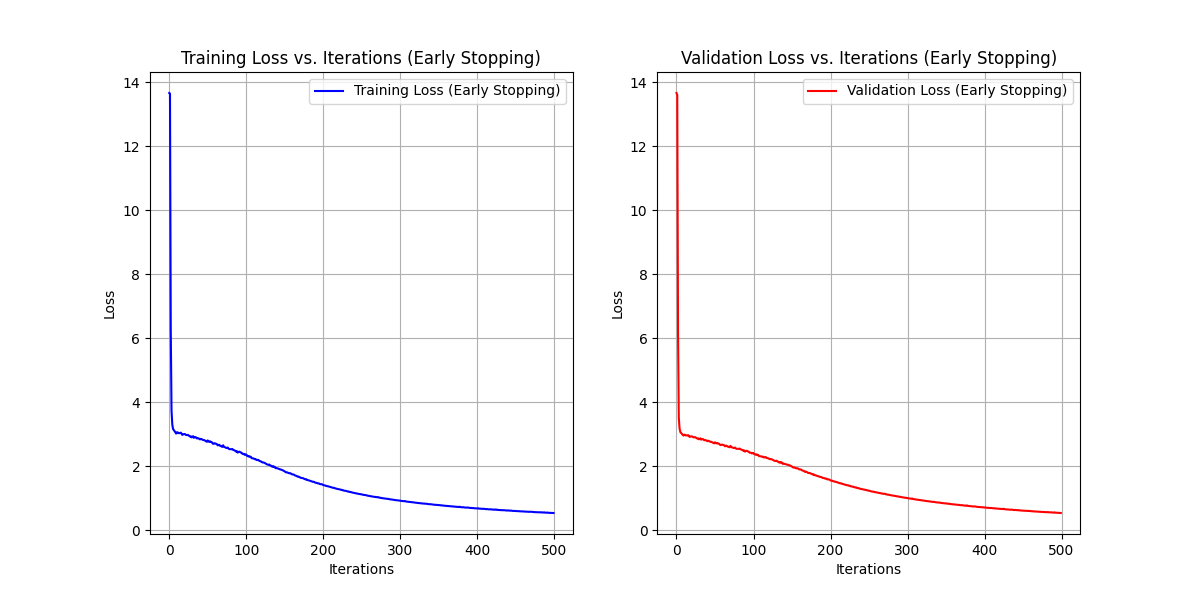
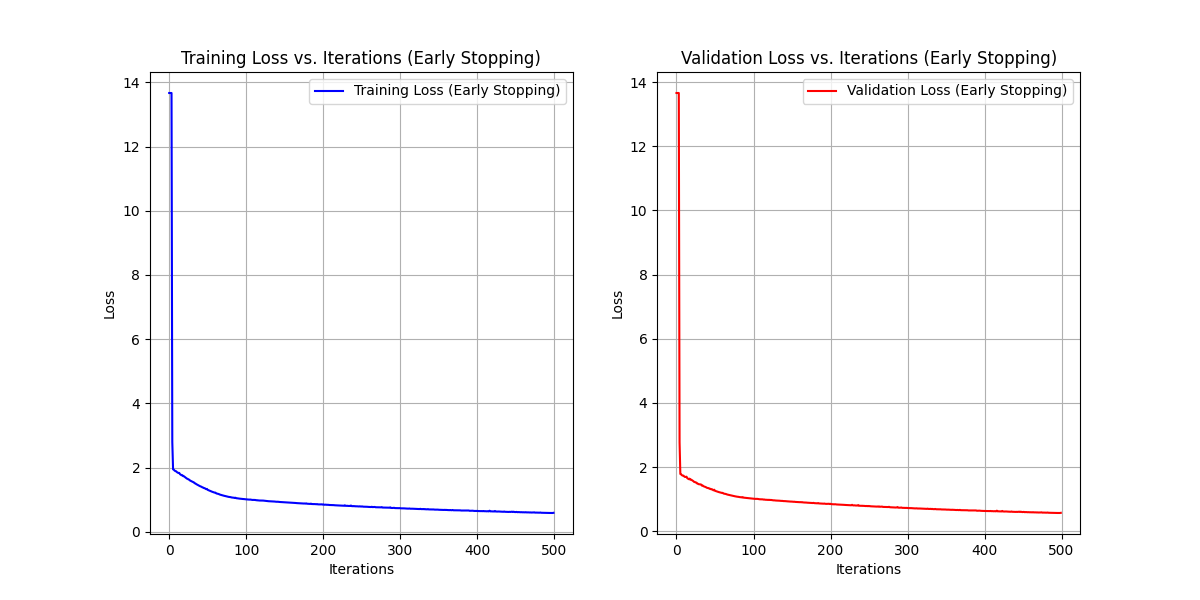
done ig

diff --git a/A1/Q2/F.py b/A1/Q2/F.py
@@ -8,6 +8,7 @@ from tqdm import tqdm
 
 plots = 'Plots/'
 experiments_dir = os.path.join(plots, 'Experiments/')
+os.makedirs(plots, exist_ok=True)
 os.makedirs(experiments_dir, exist_ok=True)
 
 df = pd.read_csv('Heart Disease.csv')
@@ -103,10 +104,10 @@ def mini_batch_gradient_descent_early_stopping(X, y, X_val, y_val, lr=0.01, iter
     
     return weights, bias, train_losses, val_losses, train_accuracies, val_accuracies
 
-weights_es, bias_es, train_losses_es, val_losses_es, train_acc_es, val_acc_es = mini_batch_gradient_descent_early_stopping(X_train, y_train, X_val, y_val, lr=0.0001, iterations=500, batch_size=256, l1_ratio=0.0, l2_ratio=0.0, early_stopping=True, patience=20)
-weights_no_es, bias_no_es, train_losses_no_es, val_losses_no_es, train_acc_no_es, val_acc_no_es = mini_batch_gradient_descent_early_stopping(X_train, y_train, X_val, y_val, lr=0.0001, iterations=500, batch_size=256, l1_ratio=0.0, l2_ratio=0.0, early_stopping=False)
+# weights_es, bias_es, train_losses_es, val_losses_es, train_acc_es, val_acc_es = mini_batch_gradient_descent_early_stopping(X_train, y_train, X_val, y_val, lr=0.0001, iterations=500, batch_size=256, l1_ratio=0.0, l2_ratio=0.0, early_stopping=True, patience=20)
+# weights_no_es, bias_no_es, train_losses_no_es, val_losses_no_es, train_acc_no_es, val_acc_no_es = mini_batch_gradient_descent_early_stopping(X_train, y_train, X_val, y_val, lr=0.0001, iterations=500, batch_size=256, l1_ratio=0.0, l2_ratio=0.0, early_stopping=False)
 
-def plot_figure(train_metric, val_metric, metric_name, label, filename):
+def plot_figure(train_metric, val_metric, metric_name, label, filename, save_dir):
     plt.figure(figsize=(12, 6))
 
     plt.subplot(1, 2, 1)
@@ -125,31 +126,32 @@ def plot_figure(train_metric, val_metric, metric_name, label, filename):
     plt.grid(True)
     plt.legend()
 
-    plt.savefig(os.path.join(experiments_dir, filename))
+    plt.savefig(os.path.join(save_dir, filename))
 
-def run_value(lr, l1_ratio, l2_ratio, early_stopping):
-    weights_es, bias_es, train_losses_es, val_losses_es, train_acc_es, val_acc_es = mini_batch_gradient_descent_early_stopping(
-        X_train, y_train, X_val, y_val, lr=lr, iterations=500, batch_size=32, l1_ratio=l1_ratio, l2_ratio=l2_ratio, early_stopping=early_stopping, patience=20)
-    
-    return train_losses_es, val_losses_es, train_acc_es, val_acc_es
+weights_es, bias_es, train_losses_es, val_losses_es, train_acc_es, val_acc_es = mini_batch_gradient_descent_early_stopping(
+    X_train, y_train, X_val, y_val, lr=0.0001, iterations=500, batch_size=256, l1_ratio=0.0, l2_ratio=0.0, early_stopping=True, patience=20)
 
-learning_rates = [0.001, 0.01, 0.1]
-l1_ratios = [0.0, 0.1, 0.5]
-l2_ratios = [0.0, 0.1, 0.5]
+weights_no_es, bias_no_es, train_losses_no_es, val_losses_no_es, train_acc_no_es, val_acc_no_es = mini_batch_gradient_descent_early_stopping(
+    X_train, y_train, X_val, y_val, lr=0.0001, iterations=500, batch_size=256, l1_ratio=0.0, l2_ratio=0.0, early_stopping=False)
+
+plot_figure(train_losses_es, val_losses_es, 'Loss', 'Early Stopping', 'loss_early_stopping.png', plots)
+plot_figure(train_acc_es, val_acc_es, 'Accuracy', 'Early Stopping', 'accuracy_early_stopping.png', plots)
+
+plot_figure(train_losses_no_es, val_losses_no_es, 'Loss', 'No Early Stopping', 'loss_no_early_stopping.png', plots)
+plot_figure(train_acc_no_es, val_acc_no_es, 'Accuracy', 'No Early Stopping', 'accuracy_no_early_stopping.png', plots)
+
+learning_rates = [0.0001, 0.001]
+l1_ratios = [0.0, 0.1]
+l2_ratios = [0.0, 0.1]
 
 results = []
 
 for lr in learning_rates:
     for l1 in l1_ratios:
         for l2 in l2_ratios:
-            print(f"\nRunning experiment with LR={lr}, L1={l1}, L2={l2}, Early Stopping=True")
-            train_losses_es, val_losses_es, train_acc_es, val_acc_es = run_value(lr, l1, l2, early_stopping=True)
-            results.append((lr, l1, l2, train_losses_es, val_losses_es, train_acc_es, val_acc_es))
-
-def plot_results(results):
-    for lr, l1, l2, train_losses, val_losses, train_acc, val_acc in results:
-        label = f"LR={lr}, L1={l1}, L2={l2}"
-        plot_figure(train_losses, val_losses, 'Loss', label, f'loss_{lr}_{l1}_{l2}.png')
-        plot_figure(train_acc, val_acc, 'Accuracy', label, f'accuracy_{lr}_{l1}_{l2}.png')
-
-plot_results(results)
+            weights, bias, train_losses, val_losses, train_acc, val_acc = mini_batch_gradient_descent_early_stopping(
+                X_train, y_train, X_val, y_val, lr=lr, iterations=500, batch_size=32, l1_ratio=l1, l2_ratio=l2, early_stopping=True, patience=20)
+            
+            label = f'LR={lr}, L1={l1}, L2={l2}'
+            plot_figure(train_losses, val_losses, 'Loss', label, f'loss_{lr}_{l1}_{l2}.png', experiments_dir)
+            plot_figure(train_acc, val_acc, 'Accuracy', label, f'accuracy_{lr}_{l1}_{l2}.png', experiments_dir)
